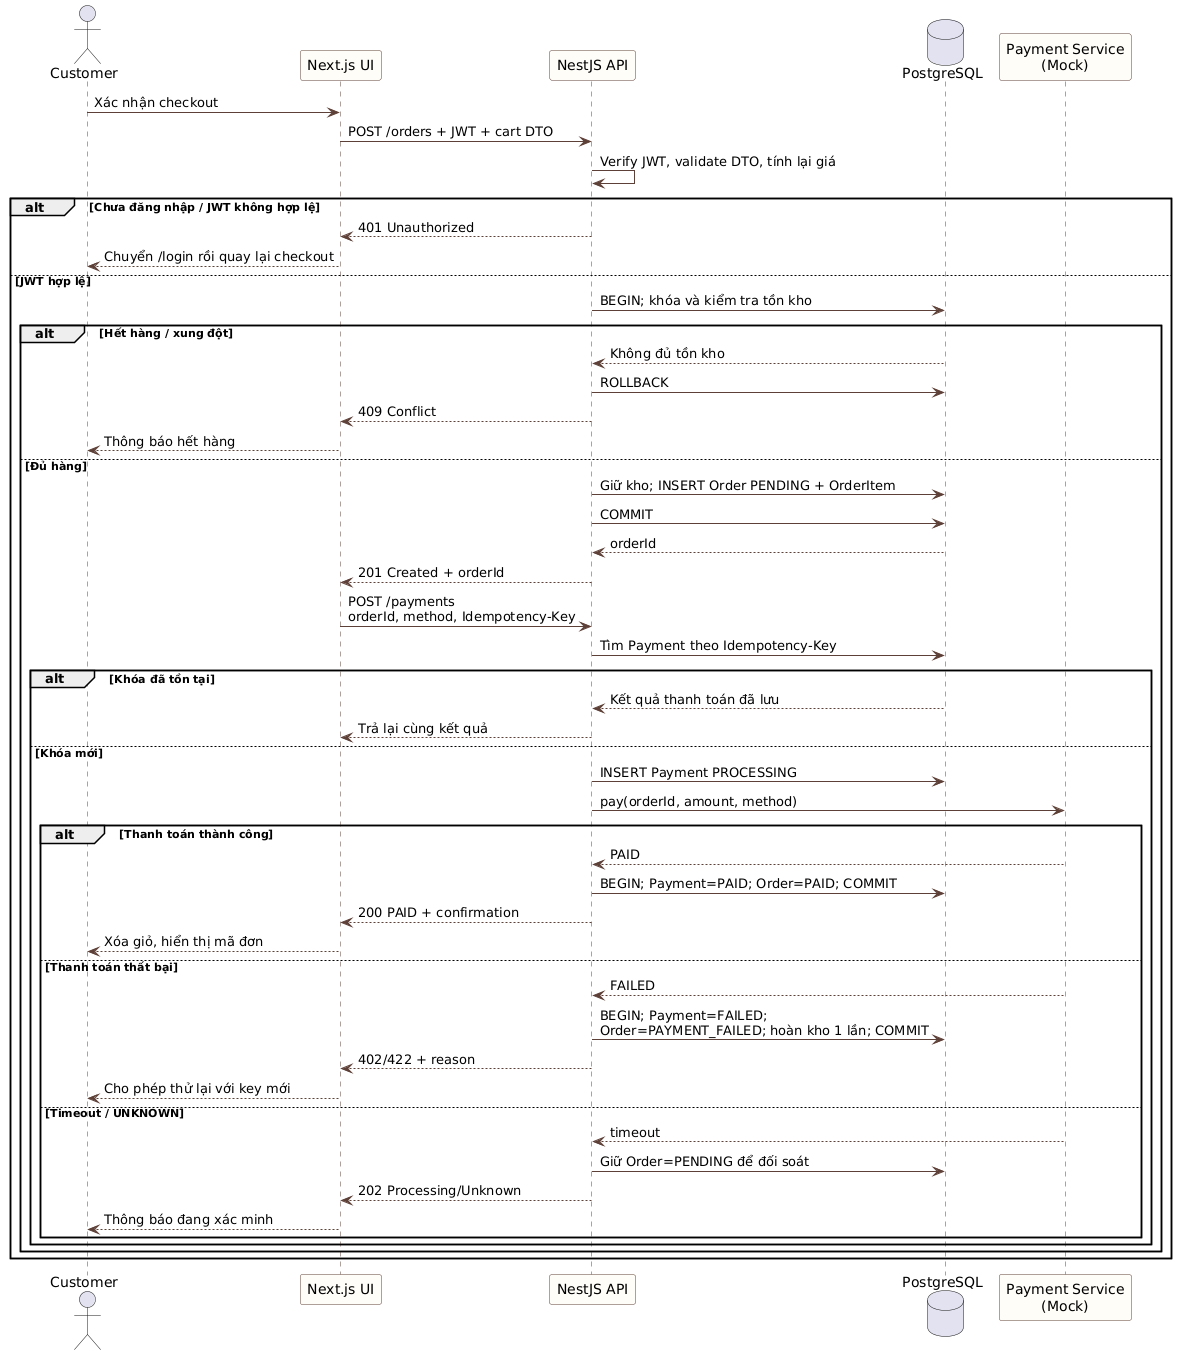
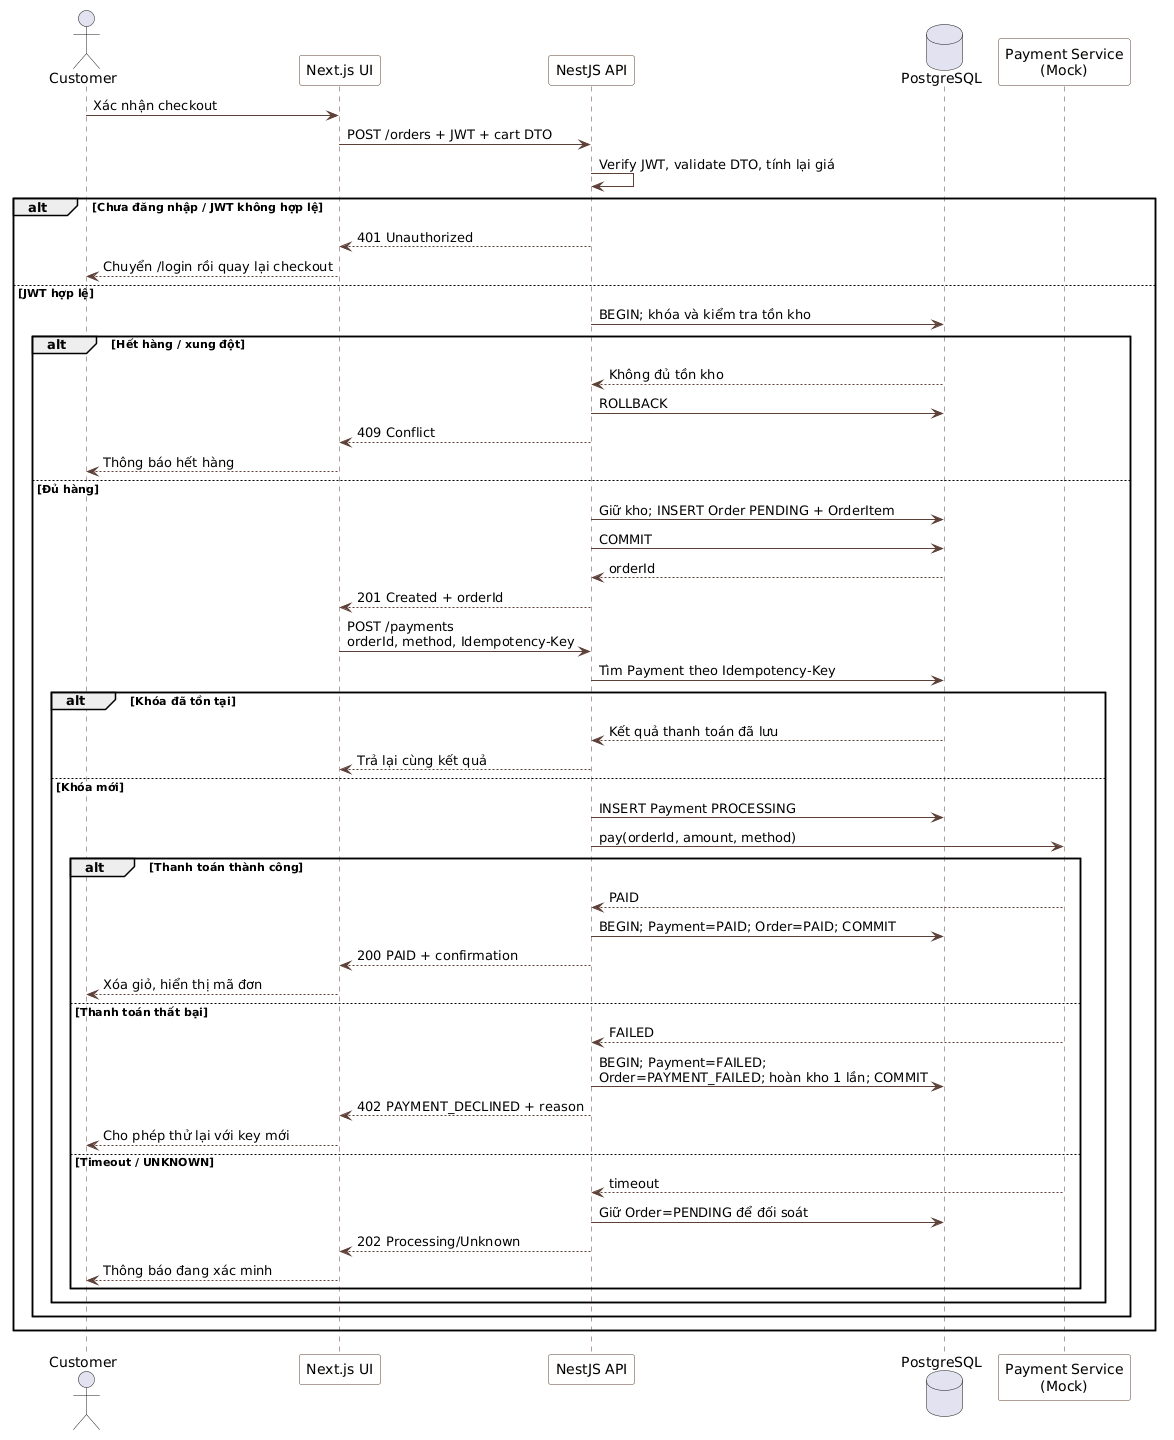
docs(payment): standardize declines on HTTP 402

diff --git a/docs/contracts/payment-mock-contract.md b/docs/contracts/payment-mock-contract.md
@@ -1,7 +1,8 @@
 # Payment mock contract — Sprint 2 preparation
 
-Status: **Draft for team approval**. This contract prepares deterministic development and
-test fixtures only. It does not implement a Payment module, database schema or real gateway.
+Status: **Accepted for the Sprint 2 mock contract**. This contract prepares deterministic
+development and test fixtures only. It does not implement a Payment module, database schema
+or real gateway.
 
 Traceability: UC-01, FR-03, FR-05, NFR-02, NFR-04 and ADR-004.
 
@@ -133,11 +134,11 @@ the stored result from the first request.
 No response may move an order from `PAID` back to `PENDING` or create a second successful
 Payment for the same order.
 
-## Decision requiring team confirmation
+## Confirmed determinate-failure status
 
-`docs/diagrams/sequence-checkout.puml` currently states `402/422` for a determinate payment
-failure. This draft selects `402` and the `PAYMENT_DECLINED` code. If the team chooses `422`,
-the diagram, this contract and fixtures must be updated together before implementation.
+A determinate payment failure uses HTTP `402 Payment Required` with the
+`PAYMENT_DECLINED` code. The sequence diagram, this contract and the fixtures use the same
+decision.
 
 The TypeScript types and deterministic examples are stored in
 `apps/api/test/fixtures/payment-mock-contract.fixture.ts`.
